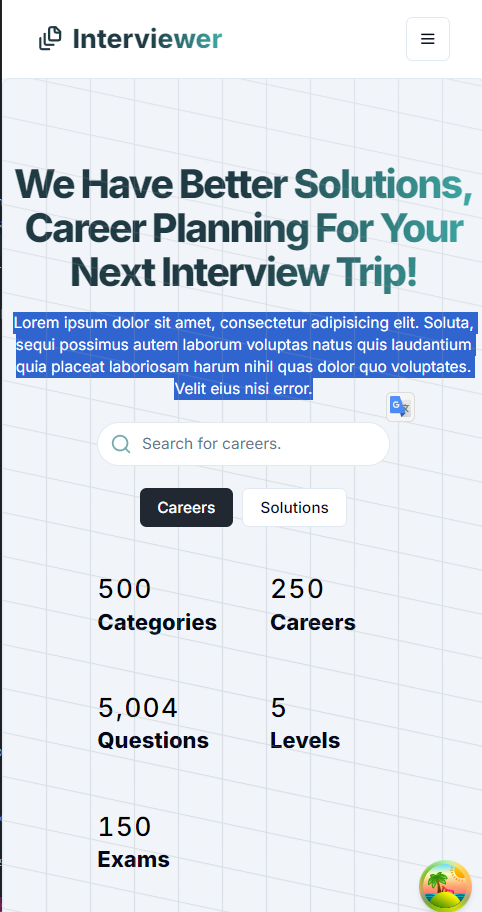
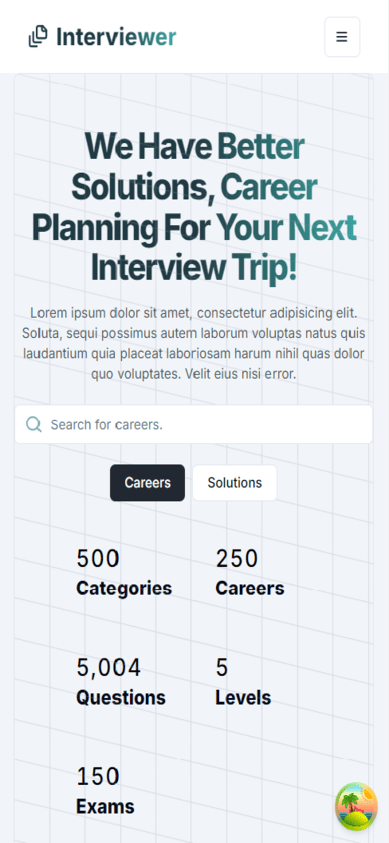
fix direction of dropdown menus in mobile navbar

diff --git a/src/components/language-switcher.tsx b/src/components/language-switcher.tsx
@@ -46,10 +46,20 @@ export function LanguageSwitcher({ label, className, size = "icon", variant = "g
         </Button>
       </DropdownMenuTrigger>
       <DropdownMenuContent align="end" className="border-none w-44 space-y-0.5">
-        <DropdownMenuItem onClick={() => changeLanguage("ar")}>
+        <DropdownMenuItem
+          onClick={() => changeLanguage("ar")}
+          className={cn("flex gap-2 items-center", language === "ar" && "bg-accent justify-end")}
+        >
           {translate("arabic", language)}
         </DropdownMenuItem>
-        <DropdownMenuItem onClick={() => changeLanguage("en")}>
+        <DropdownMenuItem
+          className={cn(
+            "flex gap-2 items-center",
+            language === "en" && "bg-accent",
+            language === "ar" && "justify-end"
+          )}
+          onClick={() => changeLanguage("en")}
+        >
           {translate("english", language)}
         </DropdownMenuItem>
       </DropdownMenuContent>

diff --git a/src/app/(home)/_components/data.tsx b/src/app/(home)/_components/data.tsx
@@ -1,6 +1,5 @@
 import { links } from "@/lib"
 import { GitHubLogoIcon, LinkedInLogoIcon } from "@radix-ui/react-icons"
-import { File } from "lucide-react"
 
 export const homePage = {
   title: "Hello, I'm Abdulrahman Saber",
@@ -10,7 +9,7 @@ export const homePage = {
   lastProject: {
     url: "https://ab2a-qalbne.vercel.app/",
     pcPicture: "/home/last-project-lg.png",
-    mobilePicture: "/home/last-project-sm-2.png",
+    mobilePicture: "/home/last-project-sm.png",
   },
 
   introLinks: [

diff --git a/src/components/navbar/mobile/mobile-navbar.tsx b/src/components/navbar/mobile/mobile-navbar.tsx
@@ -79,8 +79,8 @@ export const MobileNavbar = () => {
                     : "text-black dark:text-white hover:bg-[#222] hover:text-white"
                 )}
               >
-                <FileIcon className="size-5" />
-                CV
+                <FileIcon className="size-4" />
+                {translate("cv", language)}
               </a>
             </li>
           </ul>

diff --git a/src/components/navbar/mobile/item.tsx b/src/components/navbar/mobile/item.tsx
@@ -33,7 +33,7 @@ export const MobileNavbarLink = ({ label, icon: Icon, href, handleClose }: Props
             : "text-black dark:text-white hover:bg-[#222] hover:text-white"
         )}
       >
-        {Icon && <Icon className="size-4 inline-block mr-2" />}
+        {Icon && <Icon className="size-4" />}
         {translate(label, language)}
       </Link>
     </li>

diff --git a/src/components/navbar/navbar.tsx b/src/components/navbar/navbar.tsx
@@ -43,7 +43,7 @@ export const Navbar = () => {
                   : "text-gray-600 dark:text-gray-300"
               )}
             >
-              CV
+              {translate("cv", language)}
             </a>
           </li>
         </ul>
